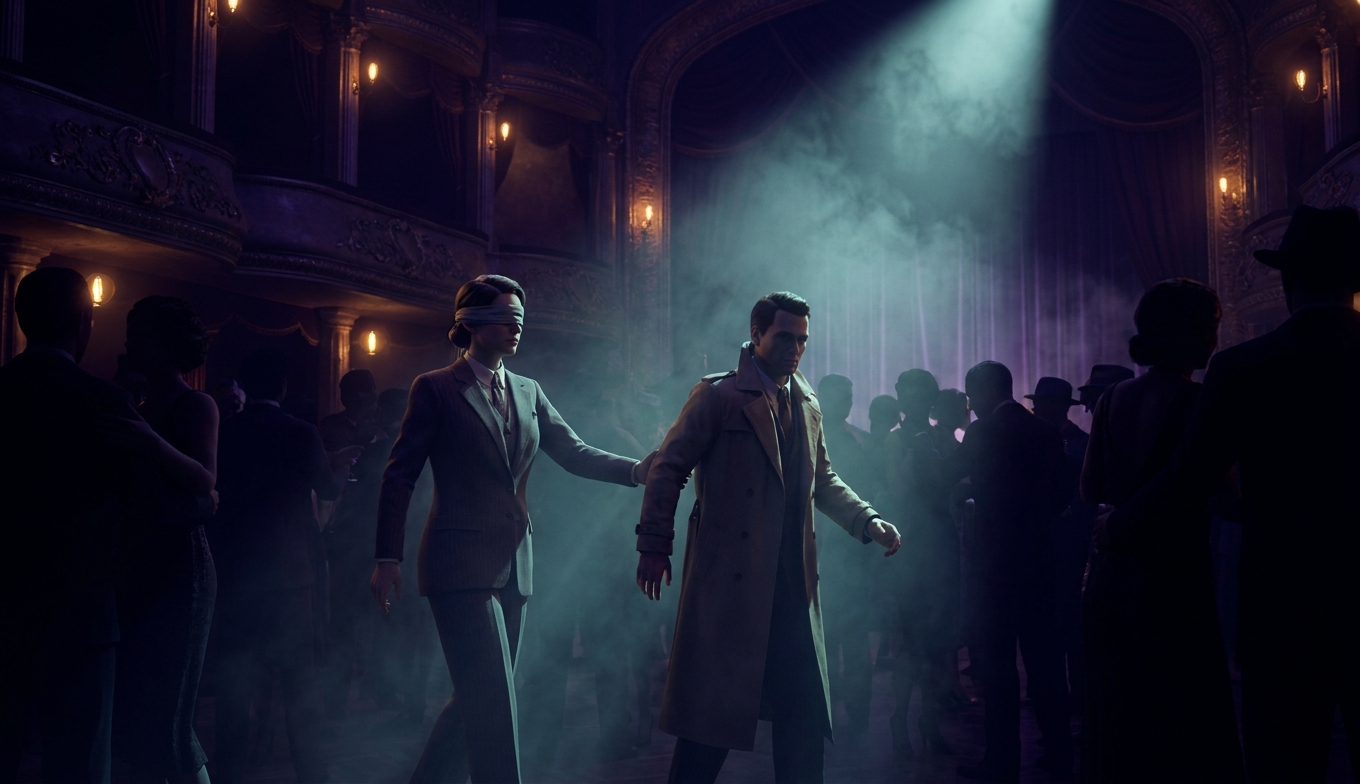
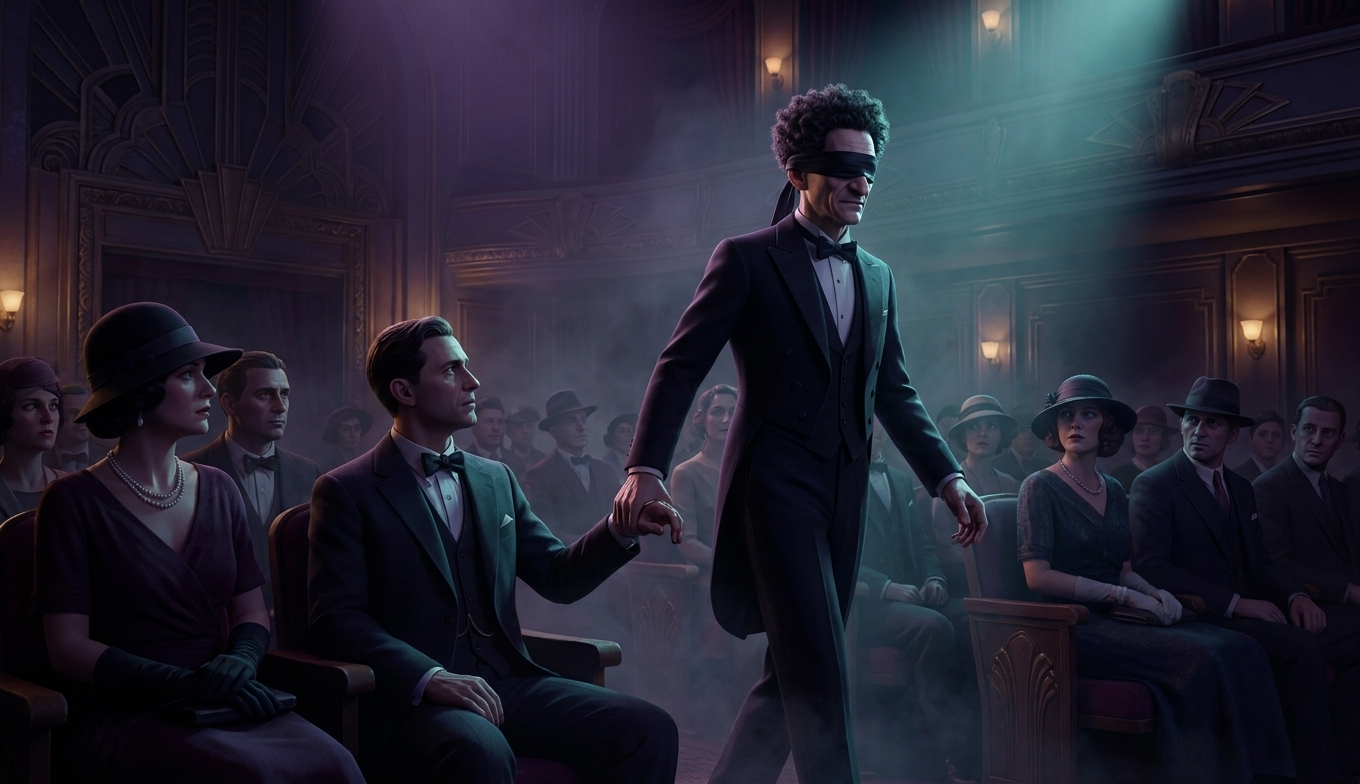
robots.txt и sitemap.xml для индексации; обложка главы про Мессинга с референсом, фото на слайде

diff --git a/esoterica_presentation/index.html b/esoterica_presentation/index.html
@@ -220,6 +220,7 @@
     <h2>Вольф Мессинг: легенда, автобиография и то, что подтверждается</h2>
     <div class="cols">
       <div>
+        <img src="assets/messing_photo.jpg" alt="Вольф Мессинг" style="float:right;width:150px;margin:0 0 8px 16px;border-radius:10px;border:1px solid var(--line)">
         <ul class="pts">
           <li><b>Биография в фактах:</b> 1899, Гура-Кальвария под Варшавой, еврейская семья. Выступал в Польше и Европе с «психологическими опытами». 1939 - бежал в СССР, с 1940-х - самый известный эстрадный «телепат» страны, тысячи концертов до 1974 года. Единственное документально подтверждённое «чудо»: в 1944 году на свои гонорары купил фронту истребитель Як-7, есть телеграмма Сталина.</li>
           <li><b>Биография по «О самом себе» (1965):</b> встречи с Эйнштейном и Фрейдом в Вене в 1915-м (Эйнштейн там не жил), предсказание падения Гитлера и награда 200 000 марок за его голову (ни одного документа), выход из тюрьмы «внушением охране», вызовы к Сталину и «прогулка» через охрану Кремля. Книгу писал журналист Михаил Хвастунов, и это отдельный жанр советской биографии.</li>
